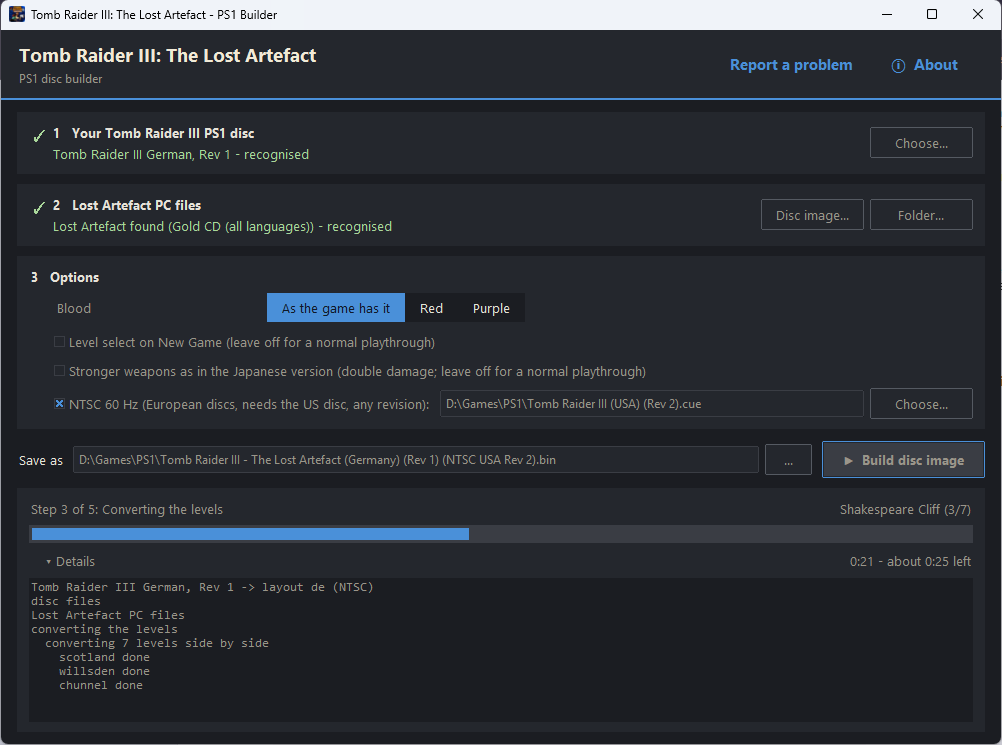
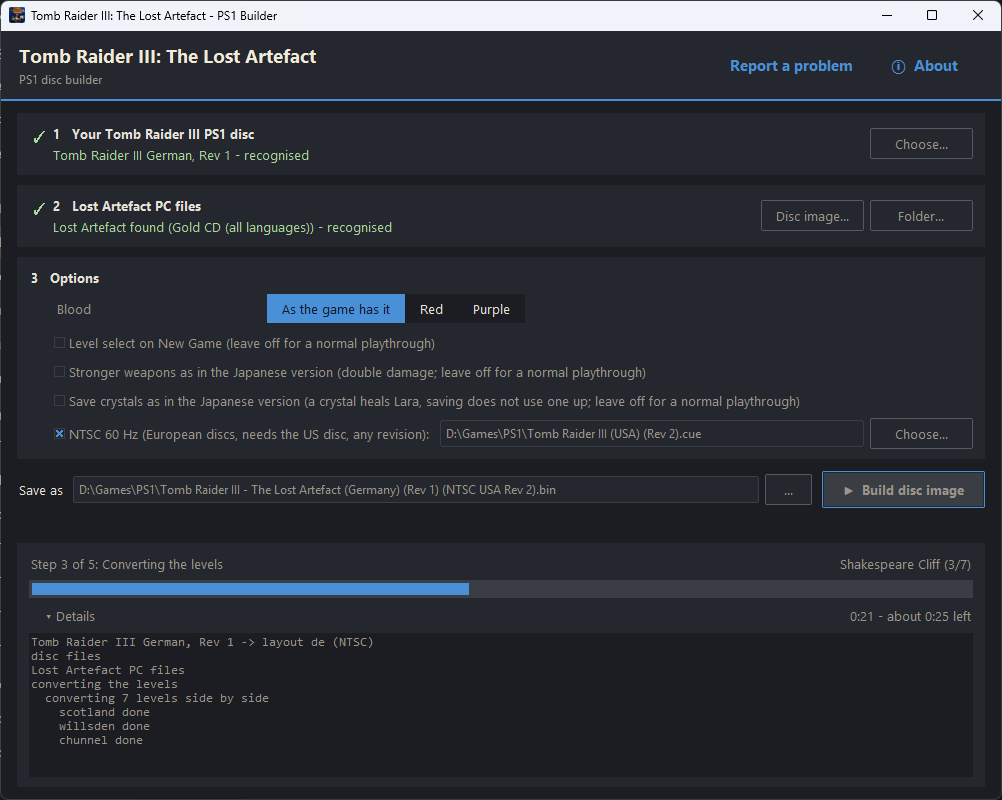
README: moves of 1.0.8, save crystal option, sounds of 1.12; builder screenshot of 1.12

diff --git a/readme.md b/readme.md
@@ -36,9 +36,9 @@ Download the **disc builder** from the [Releases](https://github.com/Snake356/tr
 - your **Tomb Raider III PS1 disc image** (.bin/.cue, .iso or .zip); your disc decides the language;
 - your **Lost Artefact PC files**: the Tomb Raider III Gold / Lost Artefact CD (any language, as a disc image or installed) or Tomb Raider I-III Remastered.
 
-Every disc also has a forward roll out of the crouch, turning on the spot in the crouch and a flip out of a crawlspace, New Game+ after the end credits (as in Tomb Raider II and the Remastered games, with a savegame of its own) and 3D pickups in the corner.
+Every disc also has new moves: a forward roll out of the crouch, turning on the spot in the crouch, a flip out of a crawlspace, a controlled drop from an edge, ledge jumps while hanging, and shimmying and climbing round corners (in Lara's home too). Besides: New Game+ after the end credits (as in Tomb Raider II and the Remastered games, with a savegame of its own) and 3D pickups in the corner. Every level plays the sounds it really uses: sounds that were silenced to save the PS1's sound memory are back where they are heard, and doors, the drill and the submarines can be heard under water.
 
-Options: blood colour, level select on New Game, weapons as strong as in the Japanese version, and NTSC (60 Hz) for the European discs (with the US disc as well, any revision: Rev 0, 1 or 2). The players' readme (`tools/builder/package/README.txt`) explains everything; `tools/builder/package/CHANGES.txt` lists what differs from the PC version and why, the known issues and every fixed bug.
+Options: blood colour, level select on New Game, weapons as strong as in the Japanese version, save crystals as in the Japanese version (a crystal heals Lara, and saving does not use one up), and NTSC (60 Hz) for the European discs (with the US disc as well, any revision: Rev 0, 1 or 2). The players' readme (`tools/builder/package/README.txt`) explains everything; `tools/builder/package/CHANGES.txt` lists what differs from the PC version and why, the known issues and every fixed bug.
 
 <p align="center">
   <img src="docs/builder.png" alt="The disc builder while building a German disc as NTSC" width="560">
@@ -75,7 +75,7 @@ What is allowed is written in [LICENSE](LICENSE): you may use the disc builder f
 - **b122251** made the PS1 port and published the whole project at https://gitlab.com/b122251/tr3gpsx with the request to finish it (his original readme and farewell are there). The end credits close with the farewell message he left for the Tomb Raider community.
 - **FindingTheLost** (April to September 2025) carried it on: he found that Sleeping with the Fishes was too big for the PS1's 2 MB of memory once several enemies became active and split it into two parts, and he fixed a camera in Willard's Lair, the secret counts, save crystals and the loading screens.
 - **XeNoN3560** (from September 2026) continued from FindingTheLost's work and finished it: Reunion playable (the acid and Sophia's fuse box), the Japanese and Asian discs with easier Disc 1 levels made by hand and Japanese texts, the remaining level fixes, the start-up and end credits like the original game, and the disc builder.
-- **The TRX team** (https://github.com/LostArtefacts/TRX): the animations of the controlled drop, the ledge jumps and the corner moves come from TRX; the PS1 code that plays them was written for this port.
+- **The TRX team** (https://github.com/LostArtefacts/TRX): the animations of the controlled drop, the ledge jumps and the corner moves come from TRX; the PS1 code that plays them was written for this port. The sound fixes of 1.12 follow TRX's.
 
 `split_info.txt` is the full development log, `tools/builder/package/CHANGES.txt` the player-facing list of changes.
 
